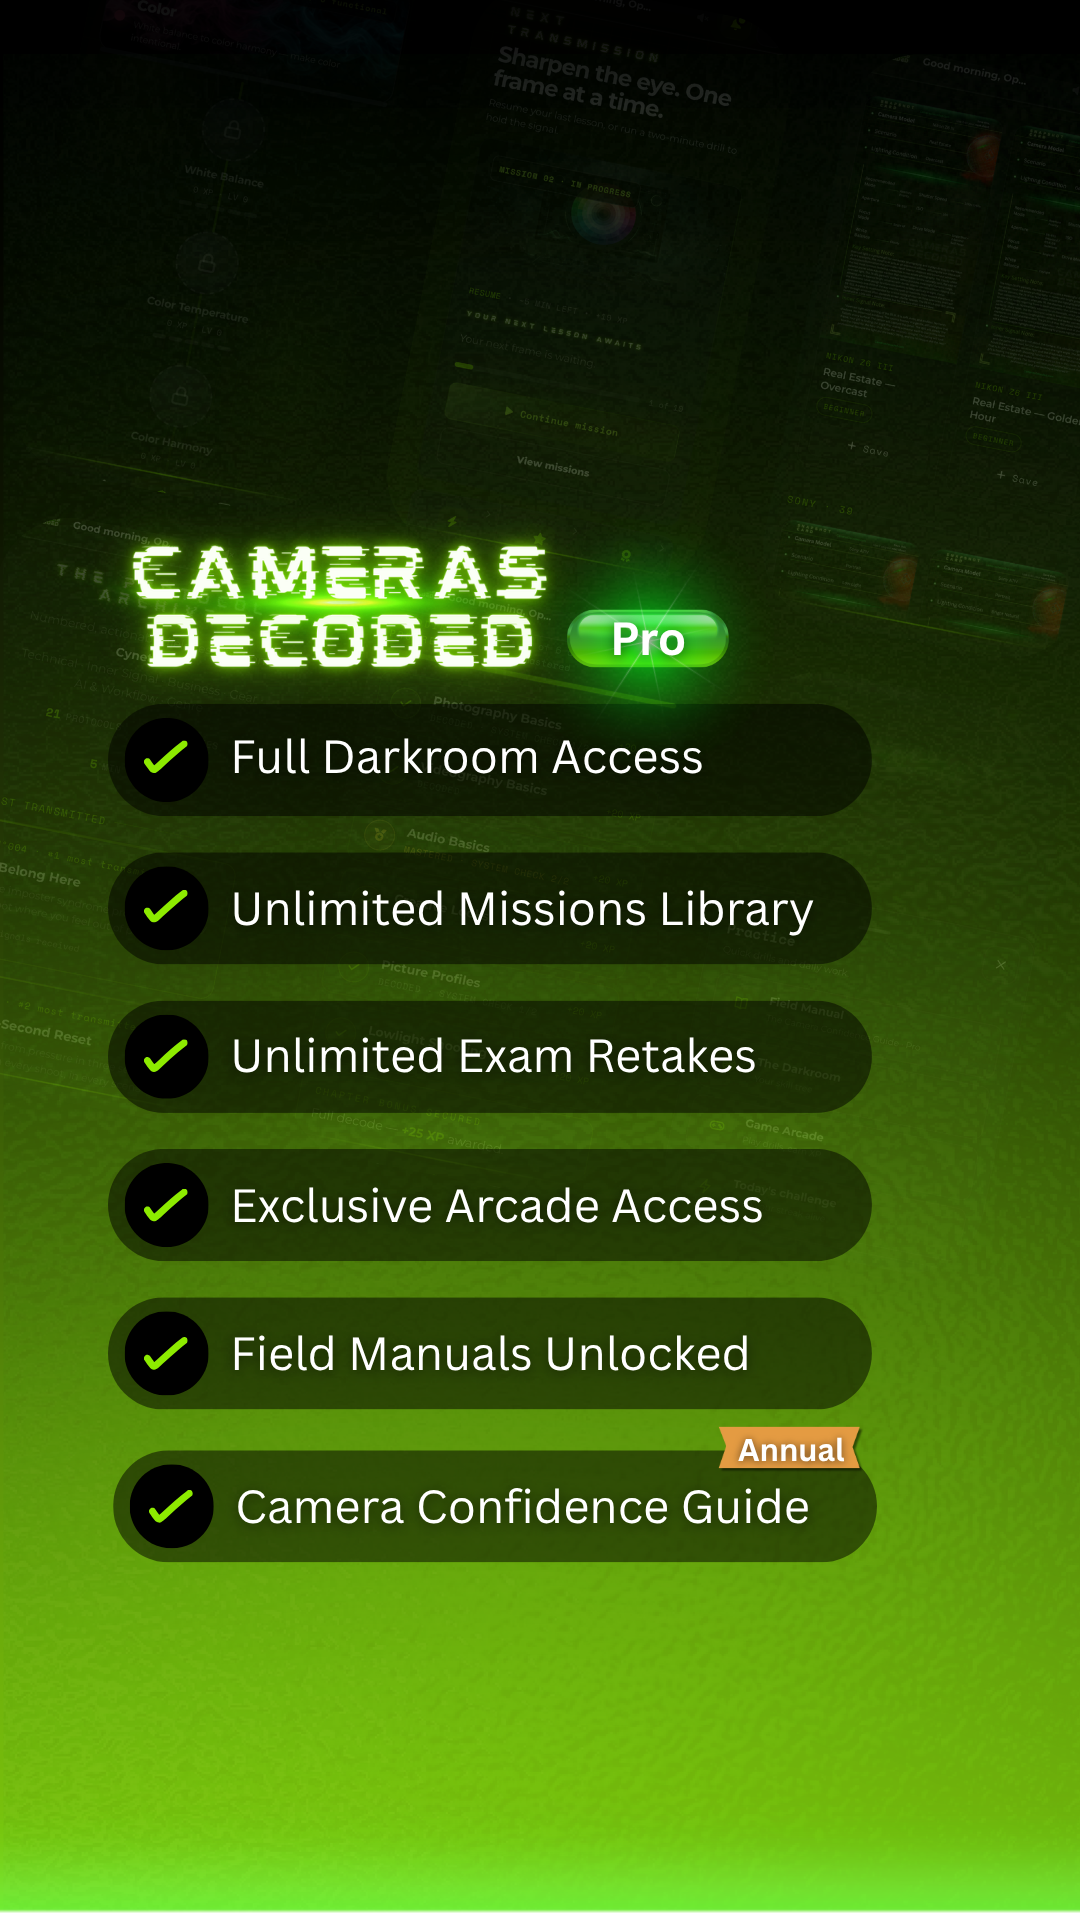
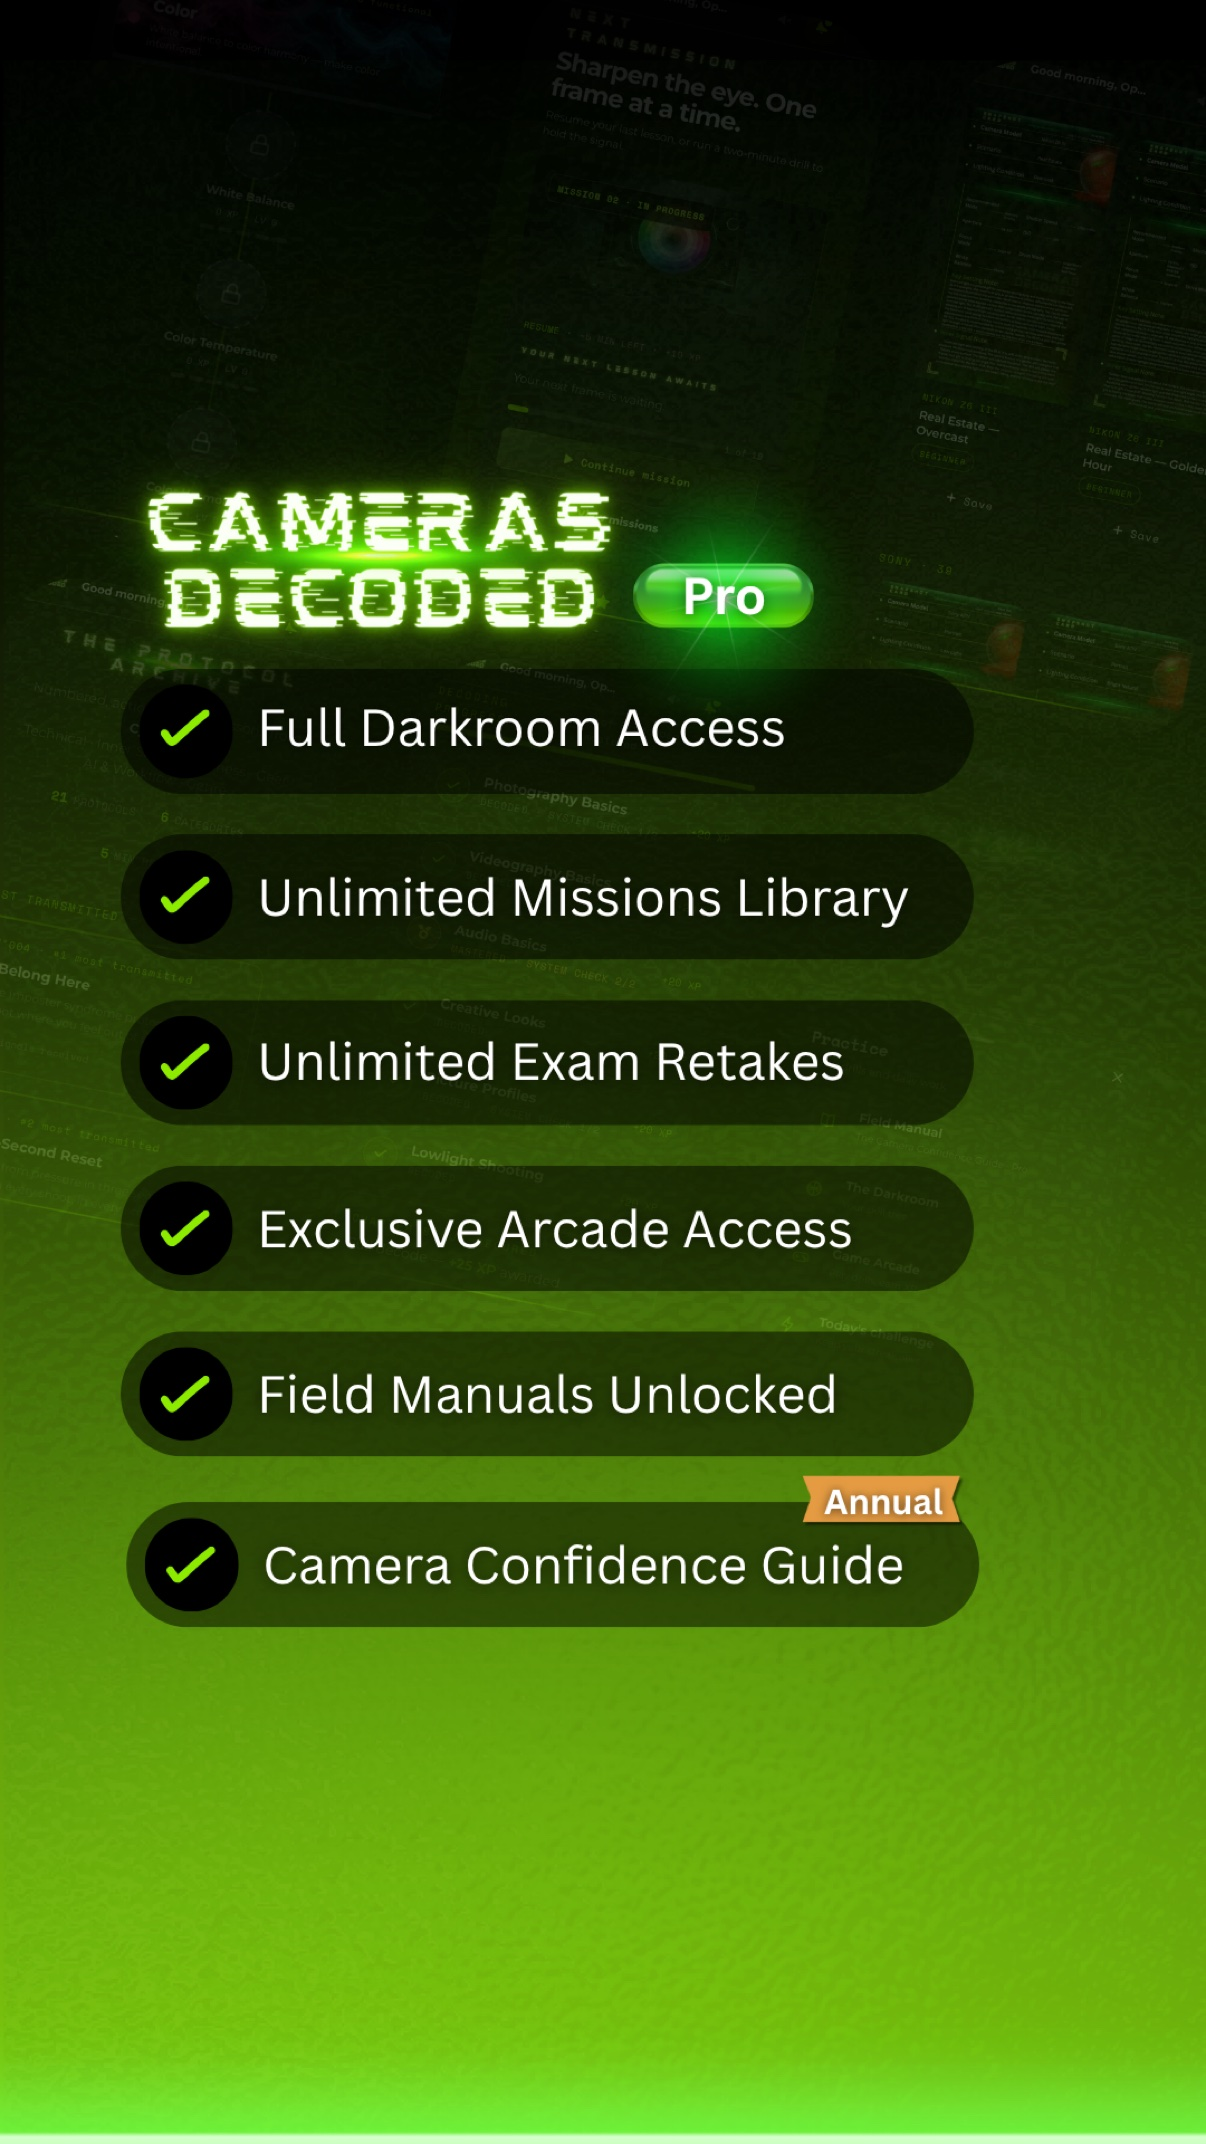
Paywall: use raised title art + roomier mobile overlay
- New pro-paywall.png from the user: content raised, last pill ends at 76%
  of image height (was 80%), green zone grows to ~24%.
- Mobile overlay sized back up for the bigger zone: 18px prices, 31px gap
  above the plans on 393x852 (measured, render-verified).
- Keeps the dark Continue CTA with animated chase border.
- Bump paywall.js to v20260925i and master-loader tag to 20260925h.

Changed region(s): [[0.0917, 0.2188, 0.825, 0.8125], [0.0, 0.9688, 1.0, 1.0]]

diff --git a/scripts/paywall.js b/scripts/paywall.js
@@ -159,21 +159,21 @@
     '.pw-sheet.pw-bleed .pw-title{position:absolute;inset:0;margin:0;z-index:0;}',
     '.pw-sheet.pw-bleed .pw-title img{width:100%;height:100%;object-fit:cover;object-position:center bottom;margin:0;filter:none;}',
     '.pw-sheet.pw-bleed .pw-body{position:absolute;left:0;right:0;bottom:0;z-index:2;',
-    'padding:0 18px calc(8px + env(safe-area-inset-bottom,0px));}',
+    'padding:0 18px calc(12px + env(safe-area-inset-bottom,0px));}',
     '.pw-sheet.pw-bleed .pw-founding,.pw-sheet.pw-bleed .pw-cancel,.pw-sheet.pw-bleed .pw-pnote{display:none;}',
-    '.pw-sheet.pw-bleed .pw-plans{margin:0 0 3px;gap:8px;}',
-    '.pw-sheet.pw-bleed .pw-plan{padding:6px 4px 5px;background:rgba(0,0,0,.55);}',
-    '.pw-sheet.pw-bleed .pw-plan.pw-sel{padding:5px 3px 4px;}',
-    '.pw-sheet.pw-bleed .pw-plan .pw-pname{font-size:9px;letter-spacing:.14em;}',
-    '.pw-sheet.pw-bleed .pw-plan .pw-pprice{font-size:16px;margin-top:2px;}',
-    '.pw-sheet.pw-bleed .pw-plan .pw-pper{font-size:9px;}',
+    '.pw-sheet.pw-bleed .pw-plans{margin:0 0 5px;gap:8px;}',
+    '.pw-sheet.pw-bleed .pw-plan{padding:8px 6px 7px;background:rgba(0,0,0,.55);}',
+    '.pw-sheet.pw-bleed .pw-plan.pw-sel{padding:7px 5px 6px;}',
+    '.pw-sheet.pw-bleed .pw-plan .pw-pname{font-size:10px;letter-spacing:.14em;}',
+    '.pw-sheet.pw-bleed .pw-plan .pw-pprice{font-size:18px;margin-top:3px;}',
+    '.pw-sheet.pw-bleed .pw-plan .pw-pper{font-size:10px;}',
     '.pw-sheet.pw-bleed .pw-plan .pw-save{top:-9px;font-size:9px;padding:3px 8px;}',
-    '.pw-sheet.pw-bleed .pw-go{margin-top:6px;height:44px;font-size:14px;',
+    '.pw-sheet.pw-bleed .pw-go{margin-top:8px;height:48px;font-size:14px;',
     'background:linear-gradient(165deg,rgba(12,22,9,.94),rgba(5,9,5,.96));',
     'border:1px solid rgba(141,235,0,.38);',
     'box-shadow:inset 0 1px 0 rgba(255,255,255,.10),0 10px 30px rgba(0,0,0,.50),0 0 26px rgba(141,235,0,.16);}',
     '.pw-sheet.pw-bleed .pw-go::before{opacity:.65;}',
-    '.pw-sheet.pw-bleed .pw-foot{margin-top:4px;padding-top:4px;font-size:12px;}',
+    '.pw-sheet.pw-bleed .pw-foot{margin-top:8px;padding-top:8px;font-size:12px;}',
     '.pw-sheet.pw-bleed .pw-foot a{color:rgba(255,255,255,.78);}',
     '.pw-sheet.pw-bleed .pw-x{top:calc(12px + env(safe-area-inset-top,0px));}',
     '}',

diff --git a/about.html b/about.html
@@ -14,7 +14,7 @@
   <link href="https://fonts.googleapis.com/css2?family=Space+Mono:wght@400;700&family=Montserrat:wght@400;600;700;800&display=swap" rel="stylesheet">
   <link rel="stylesheet" href="https://cdnjs.cloudflare.com/ajax/libs/font-awesome/6.4.0/css/all.min.css">
 
-  <script src="/scripts/master-loader.js?v=20260925g"></script>
+  <script src="/scripts/master-loader.js?v=20260925h"></script>
   <script src="/header.js?v=20260925a"></script>
   <script src="/scripts/desktop-sidebar.js"></script>
   <!-- bottom-nav.js is loaded by master-loader - do not load it again -->

diff --git a/founding-200.html b/founding-200.html
@@ -14,7 +14,7 @@
   <link href="https://fonts.googleapis.com/css2?family=Space+Mono:wght@400;700&family=Montserrat:wght@400;600;700;800&display=swap" rel="stylesheet">
   <link rel="stylesheet" href="https://cdnjs.cloudflare.com/ajax/libs/font-awesome/6.4.0/css/all.min.css">
 
-  <script src="/scripts/master-loader.js?v=20260925g"></script>
+  <script src="/scripts/master-loader.js?v=20260925h"></script>
   <script src="/header.js?v=20260925a"></script>
   <script src="/scripts/desktop-sidebar.js"></script>
   <!-- bottom-nav.js is loaded by master-loader - do not load it again -->

diff --git a/inner-signal.html b/inner-signal.html
@@ -14,7 +14,7 @@
   <link href="https://fonts.googleapis.com/css2?family=Space+Mono:wght@400;700&family=Montserrat:wght@400;600;700;800&display=swap" rel="stylesheet">
   <link rel="stylesheet" href="https://cdnjs.cloudflare.com/ajax/libs/font-awesome/6.4.0/css/all.min.css">
 
-  <script src="/scripts/master-loader.js?v=20260925g"></script>
+  <script src="/scripts/master-loader.js?v=20260925h"></script>
   <script src="/header.js?v=20260925a"></script>
   <script src="/scripts/desktop-sidebar.js"></script>
   <!-- bottom-nav.js is loaded by master-loader - do not load it again -->

diff --git a/podcast.html b/podcast.html
@@ -14,7 +14,7 @@
   <link href="https://fonts.googleapis.com/css2?family=Space+Mono:wght@400;700&family=Montserrat:wght@400;600;700;800&display=swap" rel="stylesheet">
   <link rel="stylesheet" href="https://cdnjs.cloudflare.com/ajax/libs/font-awesome/6.4.0/css/all.min.css">
 
-  <script src="/scripts/master-loader.js?v=20260925g"></script>
+  <script src="/scripts/master-loader.js?v=20260925h"></script>
   <script src="/header.js?v=20260925a"></script>
   <script src="/scripts/desktop-sidebar.js"></script>
   <!-- bottom-nav.js is loaded by master-loader - do not load it again -->

diff --git a/protocol-001.html b/protocol-001.html
@@ -25,7 +25,7 @@
 </script>
 <link href="https://fonts.googleapis.com/css2?family=Space+Mono:wght@400;700&family=Montserrat:wght@400;600;700;800&display=swap" rel="stylesheet">
 <link rel="stylesheet" href="https://cdnjs.cloudflare.com/ajax/libs/font-awesome/6.4.0/css/all.min.css">
-<script src="/scripts/master-loader.js?v=20260925g"></script>
+<script src="/scripts/master-loader.js?v=20260925h"></script>
 <script src="/header.js?v=20260925a"></script>
 <script src="/scripts/desktop-sidebar.js"></script>
 <!-- bottom-nav.js is loaded by master-loader - do not load it again -->

diff --git a/protocol-002.html b/protocol-002.html
@@ -25,7 +25,7 @@
 </script>
 <link href="https://fonts.googleapis.com/css2?family=Space+Mono:wght@400;700&family=Montserrat:wght@400;600;700;800&display=swap" rel="stylesheet">
 <link rel="stylesheet" href="https://cdnjs.cloudflare.com/ajax/libs/font-awesome/6.4.0/css/all.min.css">
-<script src="/scripts/master-loader.js?v=20260925g"></script>
+<script src="/scripts/master-loader.js?v=20260925h"></script>
 <script src="/header.js?v=20260925a"></script>
 <script src="/scripts/desktop-sidebar.js"></script>
 <!-- bottom-nav.js is loaded by master-loader - do not load it again -->

diff --git a/protocol-003.html b/protocol-003.html
@@ -25,7 +25,7 @@
 </script>
 <link href="https://fonts.googleapis.com/css2?family=Space+Mono:wght@400;700&family=Montserrat:wght@400;600;700;800&display=swap" rel="stylesheet">
 <link rel="stylesheet" href="https://cdnjs.cloudflare.com/ajax/libs/font-awesome/6.4.0/css/all.min.css">
-<script src="/scripts/master-loader.js?v=20260925g"></script>
+<script src="/scripts/master-loader.js?v=20260925h"></script>
 <script src="/header.js?v=20260925a"></script>
 <script src="/scripts/desktop-sidebar.js"></script>
 <!-- bottom-nav.js is loaded by master-loader - do not load it again -->

diff --git a/protocol-004.html b/protocol-004.html
@@ -25,7 +25,7 @@
 </script>
 <link href="https://fonts.googleapis.com/css2?family=Space+Mono:wght@400;700&family=Montserrat:wght@400;600;700;800&display=swap" rel="stylesheet">
 <link rel="stylesheet" href="https://cdnjs.cloudflare.com/ajax/libs/font-awesome/6.4.0/css/all.min.css">
-<script src="/scripts/master-loader.js?v=20260925g"></script>
+<script src="/scripts/master-loader.js?v=20260925h"></script>
 <script src="/header.js?v=20260925a"></script>
 <script src="/scripts/desktop-sidebar.js"></script>
 <!-- bottom-nav.js is loaded by master-loader - do not load it again -->

diff --git a/protocol-005.html b/protocol-005.html
@@ -25,7 +25,7 @@
 </script>
 <link href="https://fonts.googleapis.com/css2?family=Space+Mono:wght@400;700&family=Montserrat:wght@400;600;700;800&display=swap" rel="stylesheet">
 <link rel="stylesheet" href="https://cdnjs.cloudflare.com/ajax/libs/font-awesome/6.4.0/css/all.min.css">
-<script src="/scripts/master-loader.js?v=20260925g"></script>
+<script src="/scripts/master-loader.js?v=20260925h"></script>
 <script src="/header.js?v=20260925a"></script>
 <script src="/scripts/desktop-sidebar.js"></script>
 <!-- bottom-nav.js is loaded by master-loader - do not load it again -->

diff --git a/protocol-006.html b/protocol-006.html
@@ -25,7 +25,7 @@
 </script>
 <link href="https://fonts.googleapis.com/css2?family=Space+Mono:wght@400;700&family=Montserrat:wght@400;600;700;800&display=swap" rel="stylesheet">
 <link rel="stylesheet" href="https://cdnjs.cloudflare.com/ajax/libs/font-awesome/6.4.0/css/all.min.css">
-<script src="/scripts/master-loader.js?v=20260925g"></script>
+<script src="/scripts/master-loader.js?v=20260925h"></script>
 <script src="/header.js?v=20260925a"></script>
 <script src="/scripts/desktop-sidebar.js"></script>
 <!-- bottom-nav.js is loaded by master-loader - do not load it again -->

diff --git a/protocol-007.html b/protocol-007.html
@@ -25,7 +25,7 @@
 </script>
 <link href="https://fonts.googleapis.com/css2?family=Space+Mono:wght@400;700&family=Montserrat:wght@400;600;700;800&display=swap" rel="stylesheet">
 <link rel="stylesheet" href="https://cdnjs.cloudflare.com/ajax/libs/font-awesome/6.4.0/css/all.min.css">
-<script src="/scripts/master-loader.js?v=20260925g"></script>
+<script src="/scripts/master-loader.js?v=20260925h"></script>
 <script src="/header.js?v=20260925a"></script>
 <script src="/scripts/desktop-sidebar.js"></script>
 <!-- bottom-nav.js is loaded by master-loader - do not load it again -->
